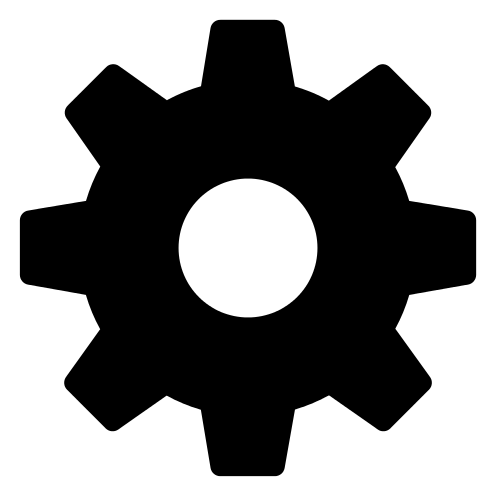
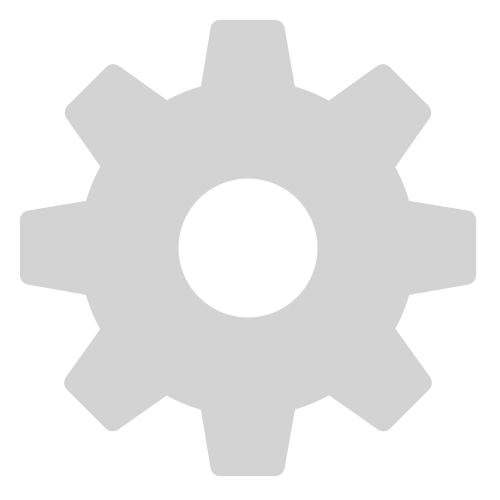
dark theme

diff --git a/app/bothcards.jsx b/app/bothcards.jsx
@@ -38,7 +38,7 @@ const CardsPage = () => {
     };
 
     return (
-        <SafeAreaView className="flex-1 px-2 box-border w-full h-full">
+        <SafeAreaView className="flex-1 px-2 box-border w-full h-full bg-black">
             <Stack.Screen
                 options={{
                     headerShown: false,
@@ -50,19 +50,14 @@ const CardsPage = () => {
                     <View className="flex w-1/2">
                         <View className="flex w-full items-center">
                             <Text className="text-xl">
-                                <Text className="font-bold">{`${store.player1Name}`}</Text>
+                                <Text className="font-bold text-slate-400">{`${store.player1Name}`}</Text>
                                 {` cards`}
                             </Text>
                         </View>
                         <View className="flex-row w-full">
                             {player1Cards.map((card, index) => (
                                 <View key={index} className="flex w-1/4">
-                                    <SingleCard
-                                        id={index + 1}
-                                        name={card}
-                                        currentCard={10}
-                                        currentCard2={10}
-                                    />
+                                    <SingleCard id={index + 1} name={card} />
                                 </View>
                             ))}
                         </View>
@@ -71,19 +66,14 @@ const CardsPage = () => {
                     <View className="flex w-1/2">
                         <View className="flex w-full items-center">
                             <Text className="text-xl">
-                                <Text className="font-bold">{`${store.player2Name}`}</Text>
+                                <Text className="font-bold text-slate-400">{`${store.player2Name}`}</Text>
                                 {` cards`}
                             </Text>
                         </View>
                         <View className="flex-row w-full">
                             {player2Cards.map((card, index) => (
                                 <View key={index} className="flex w-1/4">
-                                    <SingleCard
-                                        id={index + 1}
-                                        name={card}
-                                        currentCard={10}
-                                        currentCard2={10}
-                                    />
+                                    <SingleCard id={index + 1} name={card} />
                                 </View>
                             ))}
                         </View>

diff --git a/app/index.jsx b/app/index.jsx
@@ -1,4 +1,5 @@
 import {
+    ImageBackground,
     PermissionsAndroid,
     Platform,
     Text,
@@ -10,6 +11,7 @@ import { SafeAreaView } from "react-native-safe-area-context";
 import { router, Stack } from "expo-router";
 import * as SplashScreen from "expo-splash-screen";
 import { useState } from "react";
+import { StatusBar } from "expo-status-bar";
 
 SplashScreen.preventAutoHideAsync();
 SplashScreen.setOptions({
@@ -56,26 +58,36 @@ export default function App() {
         return null; // Render nothing while loading
     }
     return (
-        <SafeAreaView className="flex-1">
+        <View className="flex-1">
             <Stack.Screen
                 options={{
                     headerShown: false,
                 }}
             />
-            <View className="flex-1 items-center justify-center">
-                <Text className="text-3xl font-bold">Welcome to Vyas!</Text>
-                <TouchableOpacity
-                    onPress={() => {
-                        router.replace("/names");
-                    }}
-                    className="mt-6 p-4 bg-blue-500 rounded-lg"
-                    activeOpacity={0.7}
-                >
-                    <Text className="text-lg w-full px-6 text-white font-bold">
-                        Start Game
-                    </Text>
-                </TouchableOpacity>
-            </View>
-        </SafeAreaView>
+            <ImageBackground
+                source={require("../assets/images/homepage.jpg")}
+                resizeMode="cover"
+                className="flex-1 items-center justify-center"
+            >
+                <View className="flex w-full h-full items-center justify-center bg-black/50">
+                    <View className="flex-1 items-center justify-center">
+                        <Text className="text-3xl font-bold text-slate-200">
+                            Welcome to Vyas!
+                        </Text>
+                        <TouchableOpacity
+                            onPress={() => {
+                                router.replace("/names");
+                            }}
+                            className="mt-6 p-4 bg-blue-500 rounded-lg"
+                            activeOpacity={0.7}
+                        >
+                            <Text className="text-lg w-full px-6 text-white font-bold">
+                                Start Game
+                            </Text>
+                        </TouchableOpacity>
+                    </View>
+                </View>
+            </ImageBackground>
+        </View>
     );
 }

diff --git a/app/names.jsx b/app/names.jsx
@@ -132,36 +132,42 @@ const NamesPage = () => {
     };
 
     return (
-        <SafeAreaView className="flex-1 px-6 box-border">
+        <SafeAreaView className="flex-1 px-6 box-border bg-black">
             <Stack.Screen
                 options={{
                     headerShown: false,
                 }}
             />
             <Toolbar />
-            <View className="flex gap-1">
+            <View className="flex justify-center gap-1">
                 <View className="items-center p-1">
-                    <Text className="text-6xl font-bold">Vyas</Text>
+                    <Text className="text-6xl font-bold text-slate-400">
+                        Vyas
+                    </Text>
                 </View>
                 <View className="flex gap-1">
-                    <Text className="font-bold">Enter Player1 Name</Text>
+                    <Text className="font-semibold text-slate-400">
+                        Enter Player1 Name
+                    </Text>
                     <TextInput
                         onChangeText={(text) => setPlayer1Name(text)}
                         value={player1Name}
-                        className="border border-gray-300 p-3 rounded-md mb-4"
+                        className="border border-slate-500 p-3 rounded-md mb-4 text-slate-400"
                         placeholder="Player 1"
                     />
                 </View>
                 <View className="flex gap-1">
-                    <Text className="font-bold">Enter Player2 Name</Text>
+                    <Text className="font-semibold text-slate-400">
+                        Enter Player2 Name
+                    </Text>
                     <TextInput
                         onChangeText={(text) => setPlayer2Name(text)}
                         value={player2Name}
-                        className="border border-gray-300 p-3 rounded-md mb-4"
+                        className="border border-slate-500 p-3 rounded-md mb-4 text-slate-400"
                         placeholder="Player 2"
                     />
                 </View>
-                <View>
+                <View className="flex justify-center">
                     <TouchableOpacity
                         activeOpacity={0.7}
                         onPress={handleStartGame}

diff --git a/components/SingleCard.jsx b/components/SingleCard.jsx
@@ -1,24 +1,31 @@
 import { View, Text } from "react-native";
 import React from "react";
+import { actionCards, powerCards } from "../utils/constants";
 
-const SingleCard = ({ id, name, currentCard, currentCard2 }) => {
+const SingleCard = ({ id, name }) => {
     const setCardColor = () => {
-        if (id === currentCard + 1) {
-            return "bg-sky-500";
+        for (const card of actionCards) {
+            if (card === name) {
+                console.log(name, "action card");
+                return "bg-[#d8ead2]";
+            }
         }
-        if (id === currentCard2 + 1) {
-            return "bg-sky-400";
+
+        for (const card of powerCards) {
+            if (card === name) {
+                return "bg-[#dad2e9]";
+            }
         }
-        return "bg-sky-200";
+        return "bg-[#f0f0f0]";
     };
     return (
         <View className="flex w-full p-1 items-center justify-center">
             <View
-                className={`flex items-center justify-center ${setCardColor()} rounded-xl w-full h-60 mb-2`}
+                className={`flex items-center justify-center rounded-xl w-full h-60 mb-1 ${setCardColor()}`}
             >
                 <Text className="text-2xl font-white font-bold">{id}</Text>
             </View>
-            <Text className="text-sm">{name}</Text>
+            <Text className="text-md text-slate-400">{name}</Text>
         </View>
     );
 };

diff --git a/app/waiting.jsx b/app/waiting.jsx
@@ -61,7 +61,7 @@ const WaitingPage = () => {
     }, [store.isGameFinished]);
 
     return (
-        <SafeAreaView className="flex-1 p-6 box-border">
+        <SafeAreaView className="flex-1 p-6 box-border bg-black">
             <Stack.Screen
                 options={{
                     headerShown: false,
@@ -69,7 +69,9 @@ const WaitingPage = () => {
             />
             <Toolbar />
             <View className="flex h-12 items-center justify-center">
-                <Text className="text-xl">Waiting to reach a junction...</Text>
+                <Text className="text-xl text-slate-400">
+                    Waiting to reach a junction...
+                </Text>
             </View>
             <Button
                 onPress={() => store.setInJunction(true)}

diff --git a/app/gameover.jsx b/app/gameover.jsx
@@ -43,7 +43,7 @@ export default function GameOver() {
                 </Text>
                 <TouchableOpacity
                     onPress={() => {
-                        router.replace("/");
+                        router.replace("/names");
                     }}
                     className="mt-6 p-4 bg-blue-500 rounded-lg"
                     activeOpacity={0.7}

diff --git a/components/Toolbar.jsx b/components/Toolbar.jsx
@@ -13,7 +13,7 @@ const Toolbar = () => {
                 activeOpacity={0.5}
             >
                 <Image
-                    source={require("../assets/images/disconnected.png")}
+                    source={require("../assets/images/connection.png")}
                     style={{ width: 24, height: 24 }}
                 />
             </TouchableOpacity>

diff --git a/components/PlayerNewCard.jsx b/components/PlayerNewCard.jsx
@@ -136,7 +136,7 @@ const PlayerNewCard = ({
     return (
         <View>
             <View className="flex items-center">
-                <Text className="text-xl">
+                <Text className="text-xl text-slate-400">
                     <Text className="font-bold">{`${playerName}`}</Text>
                     {` new card`}
                 </Text>

diff --git a/app/player1newcard.jsx b/app/player1newcard.jsx
@@ -29,7 +29,7 @@ const Player1NewCard = () => {
         fetchCards();
     }, []);
     return (
-        <SafeAreaView className="flex-1 px-2 box-border">
+        <SafeAreaView className="flex-1 px-2 box-border bg-black">
             <Stack.Screen
                 options={{
                     headerShown: false,

diff --git a/app/player2newcard.jsx b/app/player2newcard.jsx
@@ -29,7 +29,7 @@ const Player2NewCard = () => {
         fetchCards();
     }, []);
     return (
-        <SafeAreaView className="flex-1 px-2 box-border">
+        <SafeAreaView className="flex-1 px-2 box-border bg-black">
             <Stack.Screen
                 options={{
                     headerShown: false,
